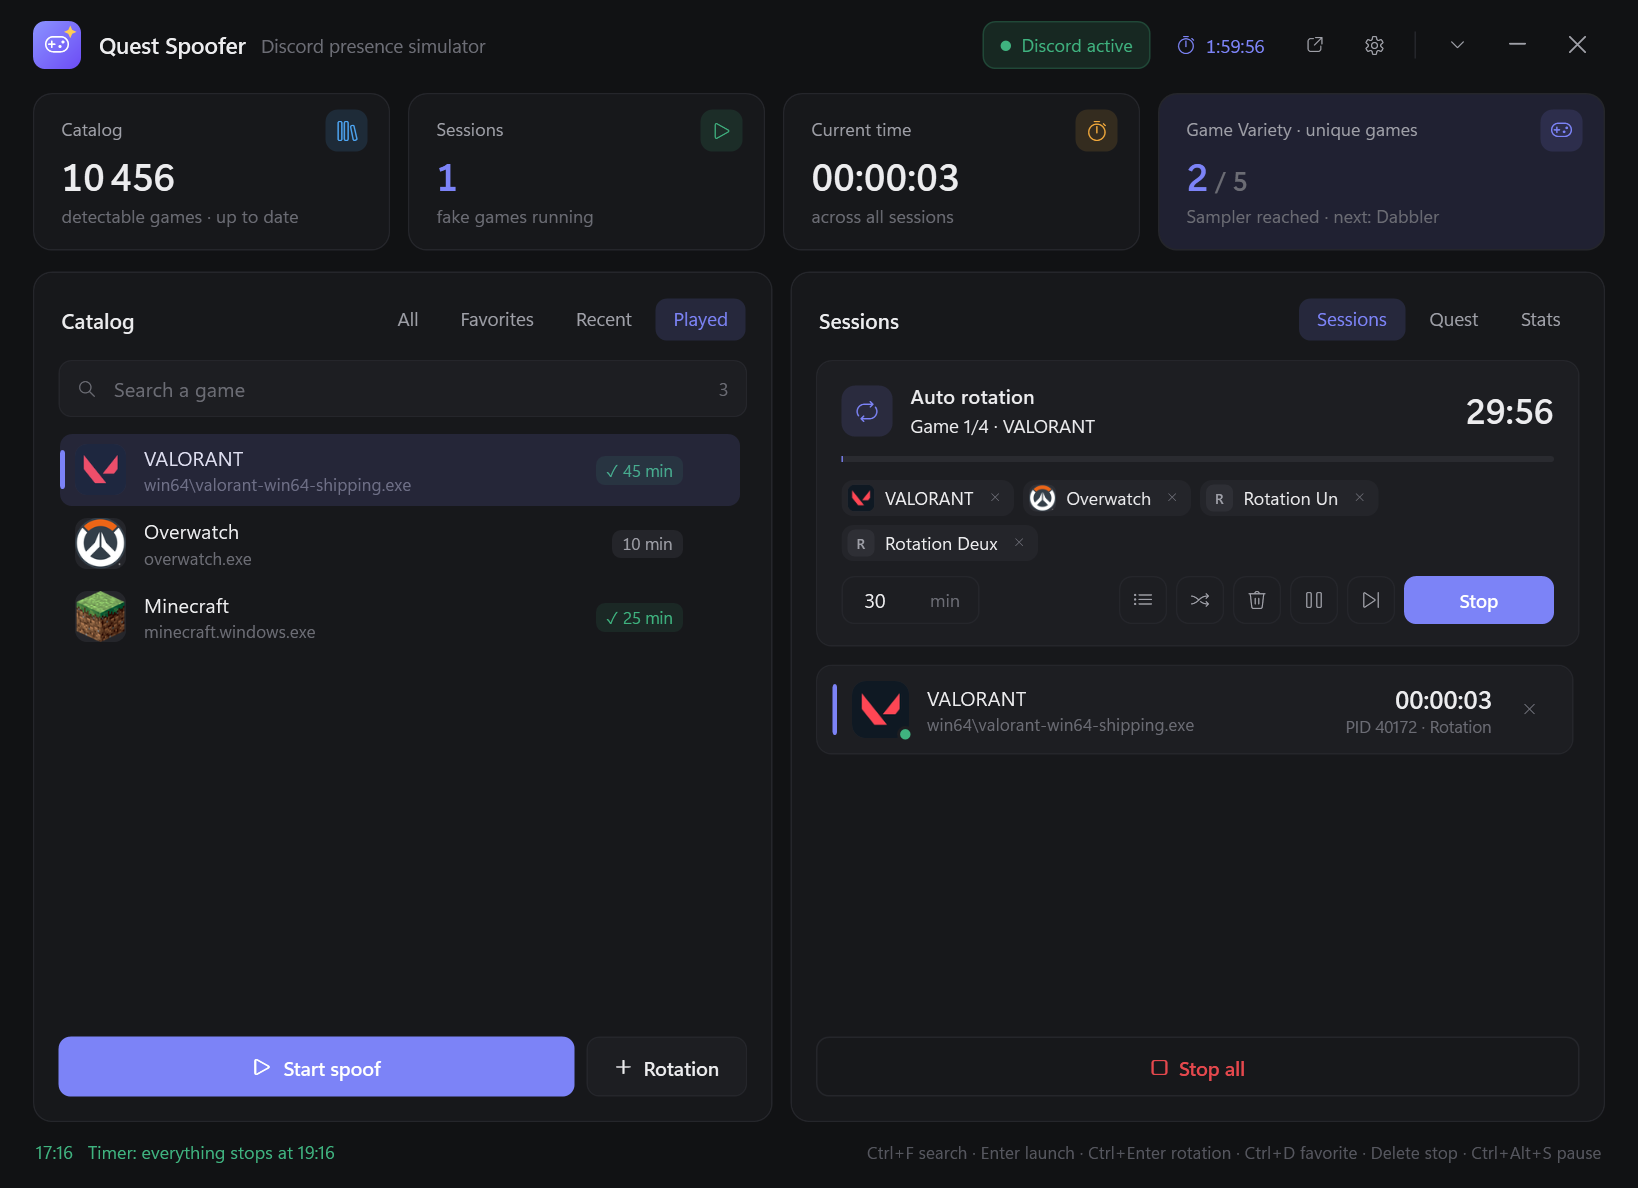
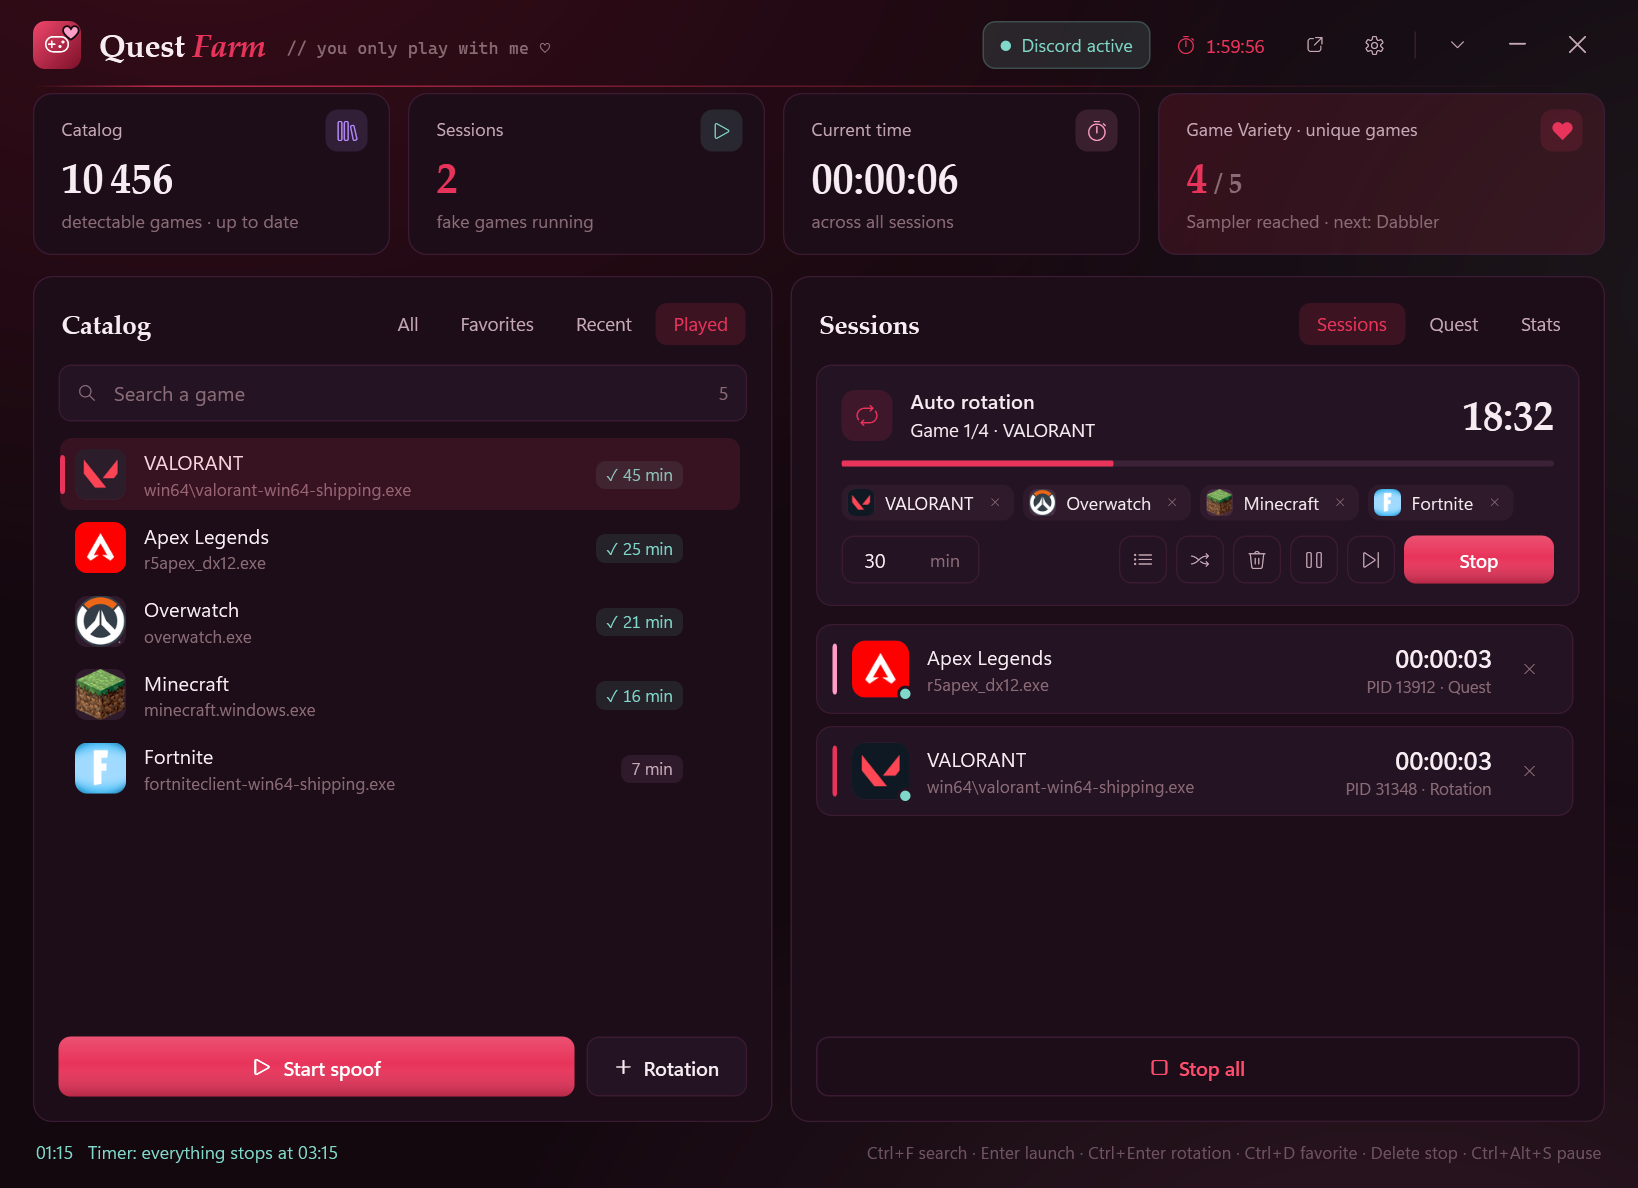
README : captures du thème yandere en français et en anglais

diff --git a/README.fr.md b/README.fr.md
@@ -6,14 +6,15 @@
 
 <p align="center">
   Simulateur de présence Discord pour Windows<br>
+  <sub><code>// tu ne joues qu'avec moi ♡</code></sub><br>
   <a href="README.md">English</a> · <b>Français</b>
 </p>
 
 <p align="center">
-  <img src="assets/screenshot-fr.png" width="820" alt="Quest Spoofer">
+  <img src="assets/screenshot-fr.png" width="820" alt="Quest Farm">
 </p>
 
-Quest Spoofer lance de **faux processus** qui portent le nom d'exécutables de jeux reconnus par Discord.
+Quest Farm lance de **faux processus** qui portent le nom d'exécutables de jeux reconnus par Discord.
 Discord croit alors que tu joues : pratique pour les quêtes « joue à X pendant N minutes ».
 
 - **Aucun token, aucun mot de passe** : l'outil ne lit ni ne modifie rien dans Discord.
@@ -36,16 +37,17 @@ Discord croit alors que tu joues : pratique pour les quêtes « joue à X pendan
 | 🪟 **Faux jeux** | Petite carte avec l'icône du jeu et un chrono ; couleur, taille et coin de l'écran réglables |
 | ⚡ **Réglages en direct** | Langue, couleurs et apparence des faux jeux s'appliquent tout de suite, même aux faux jeux déjà ouverts |
 | 📱 **Appli téléphone** | Pilote l'outil PC depuis ton téléphone sur le même Wi-Fi : sessions, rotation, recherche de jeux, quêtes, minuterie, stats |
-| 🧩 **Confort** | Mini-widget toujours visible, zone de notification, lancement avec Windows (option), raccourci bureau, diagnostic, français / anglais, 6 couleurs d'accent |
+| 🩸 **Thème yandere** | Aubergine profond, rouge sang et sakura, titres en serif ; 6 couleurs d'accent (sang, sakura, cerise, lilas, menthe, or rose) appliquées partout, téléphone et faux jeux compris |
+| 🧩 **Confort** | Mini-widget toujours visible, zone de notification, lancement avec Windows (option), raccourci bureau, diagnostic, français / anglais |
 | 🪶 **Léger** | ~2 à 6 % d'un cœur et 60 à 130 Mo ; les faux jeux s'arrêtent avec l'outil, même en cas de plantage |
 
 <p align="center">
-  <img src="assets/quest.png" width="400" alt="Mode quête">
-  <img src="assets/stats.png" width="400" alt="Statistiques">
+  <img src="assets/quest-fr.png" width="400" alt="Mode quête">
+  <img src="assets/stats-fr.png" width="400" alt="Statistiques">
 </p>
 <p align="center">
-  <img src="assets/fake-game-cards.png" width="400" alt="Cartes des faux jeux">
-  <img src="assets/settings.png" width="400" alt="Réglages">
+  <img src="assets/fake-game-cards-fr.png" width="400" alt="Cartes des faux jeux">
+  <img src="assets/settings-fr.png" width="400" alt="Réglages">
 </p>
 
 ## Installation
@@ -86,7 +88,7 @@ régler la minuterie et voir tes stats, sans te lever.
 
 > **Ce n'est pas une appli à télécharger** (pas d'APK, pas de store). C'est une appli web servie **par ton PC**
 > sur ton réseau local : tu l'ouvres dans le navigateur du téléphone et tu peux l'ajouter à l'écran d'accueil.
-> Elle ne fonctionne que si Quest Spoofer tourne sur le PC.
+> Elle ne fonctionne que si Quest Farm tourne sur le PC.
 
 ### Connexion
 
@@ -126,7 +128,7 @@ La langue et la couleur d'accent suivent celles de l'appli PC.
   Ton réseau doit aussi être en profil **Privé** (Paramètres Windows → Réseau → Wi-Fi/Ethernet → Type de profil).
 - Désactive un éventuel **VPN** sur le téléphone ou le PC.
 - Si le PC a plusieurs cartes réseau, essaie l'autre adresse affichée sous la principale.
-- Le PC doit rester allumé avec Quest Spoofer et Discord ouverts (l'outil peut être réduit dans la zone de notification).
+- Le PC doit rester allumé avec Quest Farm et Discord ouverts (l'outil peut être réduit dans la zone de notification).
 
 ## Structure du projet
 

diff --git a/README.md b/README.md
@@ -6,14 +6,15 @@
 
 <p align="center">
   Discord presence simulator for Windows<br>
+  <sub><code>// you only play with me ♡</code></sub><br>
   <b>English</b> · <a href="README.fr.md">Français</a>
 </p>
 
 <p align="center">
-  <img src="assets/screenshot-en.png" width="820" alt="Quest Spoofer">
+  <img src="assets/screenshot-en.png" width="820" alt="Quest Farm">
 </p>
 
-Quest Spoofer starts **fake processes** named after game executables that Discord can detect.
+Quest Farm starts **fake processes** named after game executables that Discord can detect.
 Discord then thinks you are playing: handy for "play X for N minutes" quests.
 
 - **No token, no password**: the app never reads or changes anything inside Discord.
@@ -36,16 +37,17 @@ Discord then thinks you are playing: handy for "play X for N minutes" quests.
 | 🪟 **Fake games** | Small card with the game icon and a timer; color, size and screen corner are configurable |
 | ⚡ **Live settings** | Language, colors and fake game appearance apply instantly, even to fake games already running |
 | 📱 **Phone app** | Control the PC app from your phone on the same Wi-Fi: sessions, rotation, game search, quests, timer, stats |
-| 🧩 **Comfort** | Always-on-top mini widget, notification area, launch with Windows (optional), desktop shortcut, diagnostics, English / French, 6 accent colors |
+| 🩸 **Yandere theme** | Deep aubergine, blood red and sakura, serif titles; 6 accent colors (blood, sakura, cherry, lilac, mint, rose gold) applied everywhere, phone and fake games included |
+| 🧩 **Comfort** | Always-on-top mini widget, notification area, launch with Windows (optional), desktop shortcut, diagnostics, English / French |
 | 🪶 **Lightweight** | ~2–6% of one core and 60–130 MB; fake games stop with the app, even if it crashes |
 
 <p align="center">
-  <img src="assets/quest.png" width="400" alt="Quest mode">
-  <img src="assets/stats.png" width="400" alt="Stats">
+  <img src="assets/quest-en.png" width="400" alt="Quest mode">
+  <img src="assets/stats-en.png" width="400" alt="Stats">
 </p>
 <p align="center">
-  <img src="assets/fake-game-cards.png" width="400" alt="Fake game cards">
-  <img src="assets/settings.png" width="400" alt="Settings">
+  <img src="assets/fake-game-cards-en.png" width="400" alt="Fake game cards">
+  <img src="assets/settings-en.png" width="400" alt="Settings">
 </p>
 
 ## Installation
@@ -86,7 +88,7 @@ set the timer and check your stats, without getting up.
 
 > **There is nothing to download** (no APK, no store). It is a web app served **by your PC** on your local
 > network: you open it in your phone's browser and can add it to your home screen.
-> It only works while Quest Spoofer is running on the PC.
+> It only works while Quest Farm is running on the PC.
 
 ### Connecting
 
@@ -126,7 +128,7 @@ Language and accent color follow the PC app.
   Your network must also use the **Private** profile (Windows Settings → Network → Wi-Fi/Ethernet → Network profile type).
 - Turn off any **VPN** on the phone or the PC.
 - If the PC has several network adapters, try the other address shown under the main one.
-- The PC must stay on with Quest Spoofer and Discord open (the app can be minimized to the notification area).
+- The PC must stay on with Quest Farm and Discord open (the app can be minimized to the notification area).
 
 ## Project structure
 
